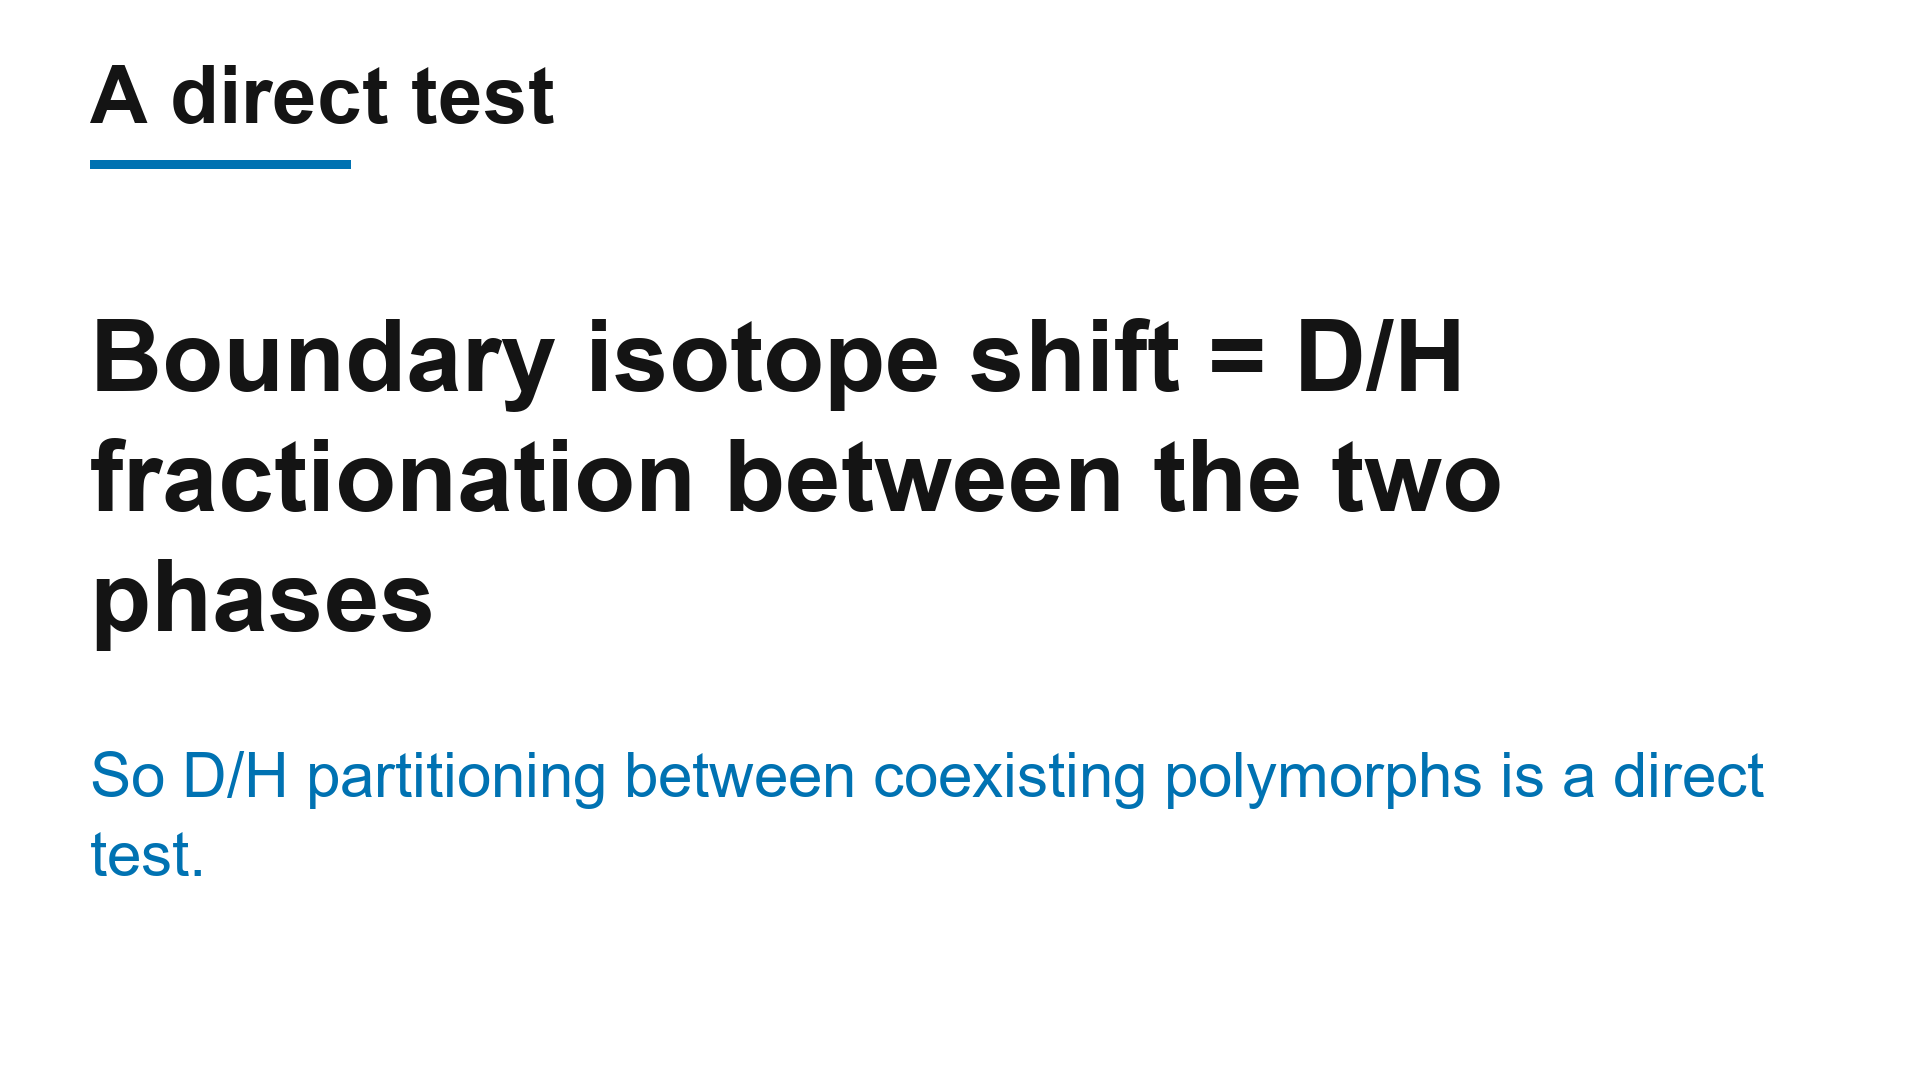
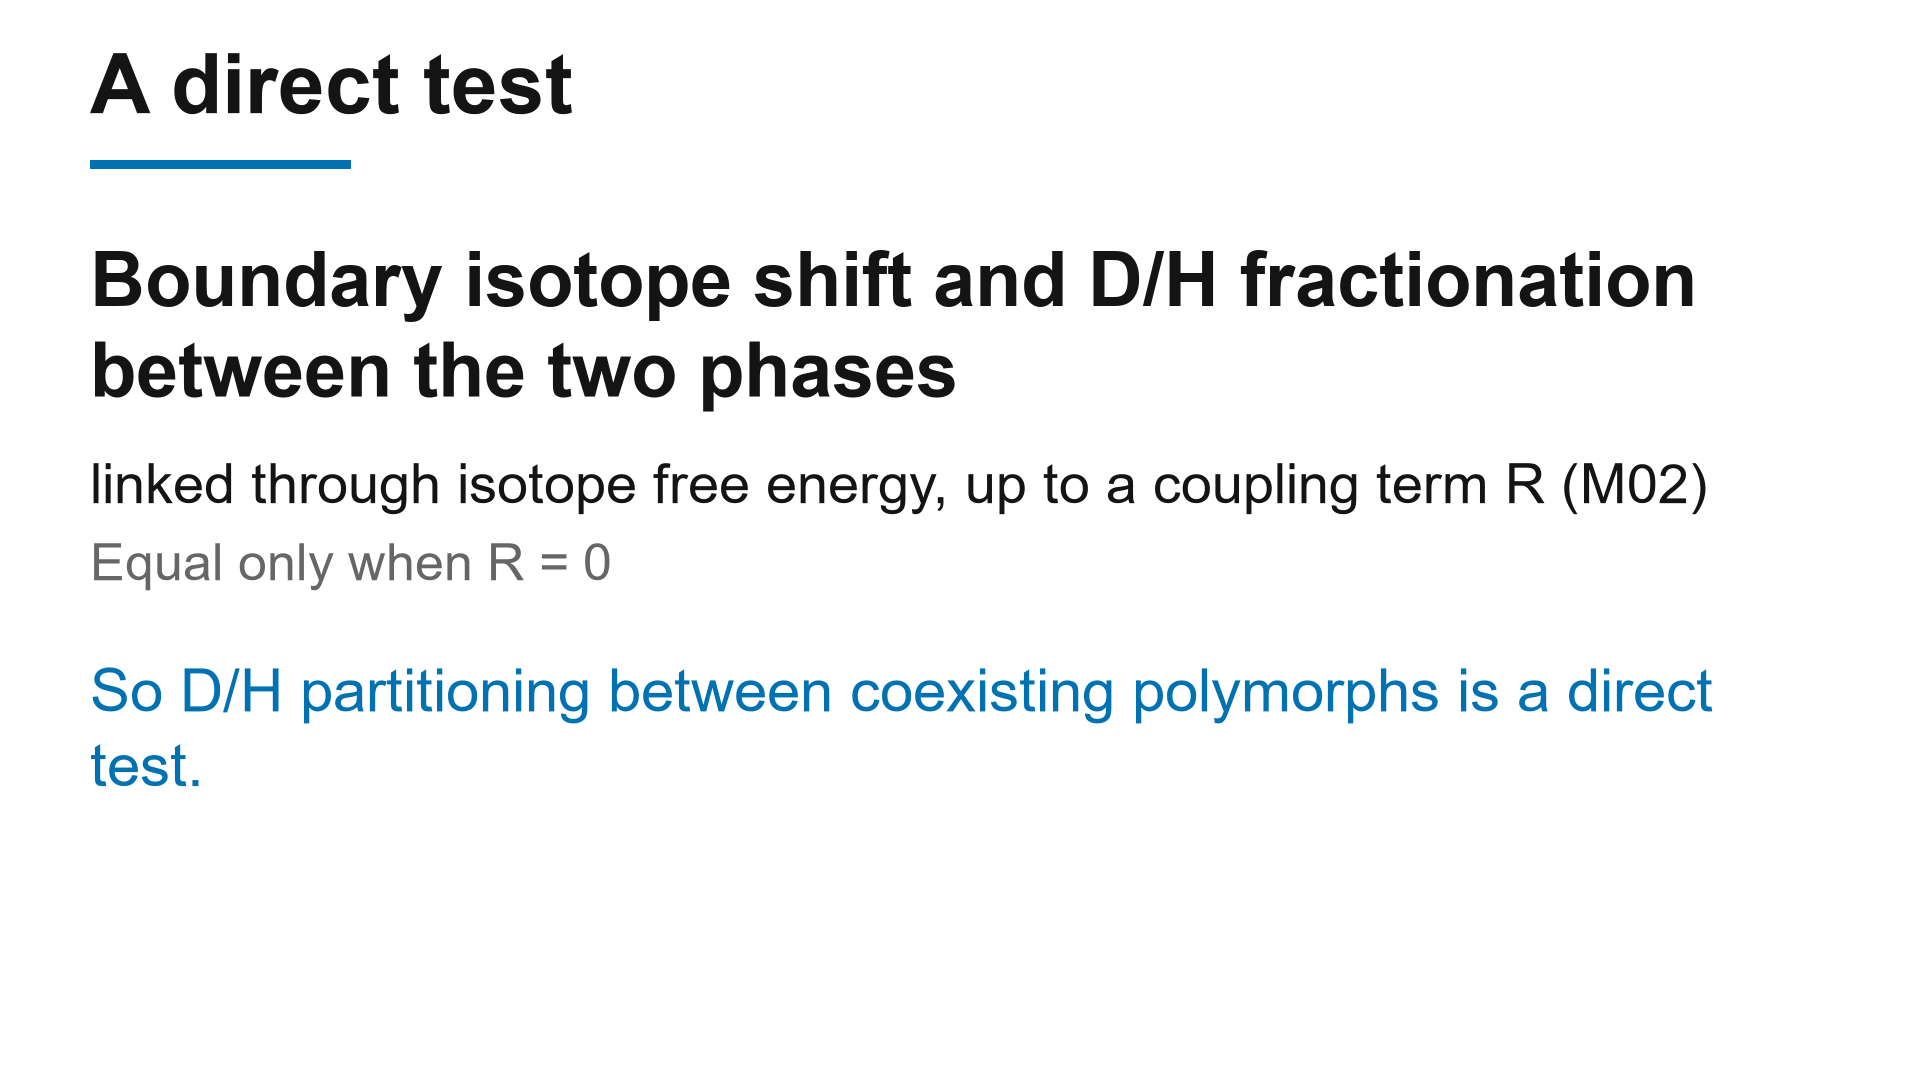
video kit: slide-only fixes per decision 12 action 4; narration and captions unchanged

Changed region(s): [[0.0312, 0.2139, 0.9375, 0.7639], [0.0312, 0.0306, 0.3125, 0.1222], [0.0312, 0.7639, 0.0938, 0.825]]

diff --git a/docs/story/video/make_slides_d12.py b/docs/story/video/make_slides_d12.py
@@ -1,0 +1,182 @@
+"""Regenerate the video slides changed by decision 12 action 4 (visual-only fixes).
+
+Run from the repo root:  .venv/Scripts/python.exe docs/story/video/make_slides_d12.py
+
+Slides 01 and 03 are edited as overlays on the committed d14c125 PNGs (read from git,
+so reruns are idempotent). Slides 06, 07b, 07c and 08 are drawn from scratch in the
+kit style: 1920x1080, white background, Arial, Okabe-Ito blue and vermillion, all text
+48 px or larger. Narration and captions are not touched.
+"""
+import io
+import subprocess
+from pathlib import Path
+
+import matplotlib
+
+matplotlib.use("Agg")
+import matplotlib.image as mpimg
+import matplotlib.pyplot as plt
+from matplotlib.patches import Circle, Rectangle
+
+OUT = Path(__file__).resolve().parent
+ROOT = OUT.parents[2]
+BASE_COMMIT = "d14c125"
+W, H, DPI = 1920, 1080, 100
+INK, BLUE, VERM, GREY = "#141414", "#0072B2", "#D55E00", "#666666"
+SANS, MONO = "Arial", "Consolas"
+X0, XMAX = 90, 1830
+
+
+def px(size):
+    """Font size in points for a given pixel em size at 100 dpi."""
+    return size * 72 / DPI
+
+
+def canvas(base_png=None):
+    fig = plt.figure(figsize=(W / DPI, H / DPI), dpi=DPI)
+    fig.patch.set_facecolor("white")
+    ax = fig.add_axes([0, 0, 1, 1])
+    ax.set_xlim(0, W)
+    ax.set_ylim(H, 0)
+    ax.axis("off")
+    if base_png is not None:
+        ax.imshow(base_png, extent=(0, W, H, 0), interpolation="none")
+        ax.set_xlim(0, W)
+        ax.set_ylim(H, 0)
+    return fig, ax
+
+
+def text(ax, x, y, s, size, color=INK, weight="normal", family=SANS, ha="left"):
+    return ax.text(x, y, s, fontsize=px(size), color=color, weight=weight,
+                   family=family, ha=ha, va="top")
+
+
+def wrap(ax, x, y, s, size, width, line_h=1.25, **kw):
+    """Draw s wrapped to width pixels; return y below the last line."""
+    fig = ax.figure
+    r = fig.canvas.get_renderer()
+    words, lines, cur = s.split(), [], ""
+    for w in words:
+        trial = (cur + " " + w).strip()
+        t = text(ax, 0, -500, trial, size, **kw)
+        wid = t.get_window_extent(renderer=r).width
+        t.remove()
+        if wid > width and cur:
+            lines.append(cur)
+            cur = w
+        else:
+            cur = trial
+    lines.append(cur)
+    for i, ln in enumerate(lines):
+        text(ax, x, y + i * size * line_h, ln, size, **kw)
+    return y + len(lines) * size * line_h
+
+
+def title(ax, s):
+    text(ax, X0, 52, s, 84, weight="bold")
+    ax.add_patch(Rectangle((X0, 160), 261, 9, color=BLUE, lw=0))
+
+
+def save(fig, name):
+    fig.savefig(OUT / name, dpi=DPI, facecolor="white")
+    plt.close(fig)
+    img = mpimg.imread(OUT / name)
+    assert img.shape[:2] == (H, W), (name, img.shape)
+    print("wrote", name, img.shape[1], "x", img.shape[0])
+
+
+def base(name):
+    raw = subprocess.run(["git", "show", f"{BASE_COMMIT}:docs/story/video/{name}"],
+                         cwd=ROOT, check=True, capture_output=True).stdout
+    return mpimg.imread(io.BytesIO(raw), format="png")
+
+
+def slide_01():
+    fig, ax = canvas(base("slide_01_title.png"))
+    ax.add_patch(Rectangle((60, 438), 1800, 152, color="white", lw=0))
+    text(ax, X0, 440, "185 of 212 model evaluations (baseline 131),", 60, BLUE, "bold")
+    text(ax, X0, 518, "moderate-to-strong H bonds", 56)
+    save(fig, "slide_01_title.png")
+
+
+def slide_03():
+    fig, ax = canvas(base("slide_03_headline.png"))
+    text(ax, 1880, 52, "Slope 0.11 to 0.13 meV per H per mÅ", 48, ha="right")
+    text(ax, 1880, 114, "screen-wide, all X-H rows", 48, BLUE, "bold", ha="right")
+    save(fig, "slide_03_headline.png")
+
+
+def slide_06():
+    fig, ax = canvas()
+    title(ax, "A direct test")
+    y = wrap(ax, X0, 250, "Boundary isotope shift and D/H fractionation between the two phases",
+             76, XMAX - X0, 1.2, weight="bold")
+    y = wrap(ax, X0, y + 30, "linked through isotope free energy, up to a coupling term R (M02)",
+             56, XMAX - X0)
+    y = wrap(ax, X0, y + 10, "Equal only when R = 0", 52, XMAX - X0, color=GREY)
+    wrap(ax, X0, y + 60, "So D/H partitioning between coexisting polymorphs is a direct test.",
+         60, XMAX - X0, color=BLUE)
+    save(fig, "slide_06_m02_bridge.png")
+
+
+def slide_07b():
+    fig, ax = canvas()
+    title(ax, "Committed before the data")
+    rows = [
+        ("21 Oct 21:36", "f3ac0ac", "P04 blind prediction: D/H fractionation", INK),
+        ("21 Oct 21:43", "e7ee2d5", "Measured data committed, still unread", INK),
+        ("22 Oct 01:15", "bec68d7", "P05 blind prediction: ice boundaries", INK),
+        ("22 Oct 01:27", "2eb6b8a", "F07 scored: Ih-II and Ih-III wrong sign, failed", VERM),
+    ]
+    y = 230
+    for when, sha, what, col in rows:
+        text(ax, X0, y, when, 52, weight="bold")
+        text(ax, 450, y + 2, sha, 52, BLUE, family=MONO)
+        y = max(y + 130, wrap(ax, 700, y, what, 52, XMAX - 700, 1.2, color=col) + 40)
+    ax.plot([X0, XMAX], [y, y], color="#dddddd", lw=3)
+    wrap(ax, X0, y + 30, "F06: a blind reimplementation matches to 1e-9 meV/atom. "
+         "It checks the code, not the physics.", 52, XMAX - X0, 1.2)
+    save(fig, "slide_07b_commit_timeline.png")
+
+
+def slide_07c():
+    fig, ax = canvas()
+    title(ax, "One literature value, traced")
+    rows = [
+        ("Bond query", "brucite Mg(OH)2 Mg(OD)2 isotope effect lattice parameters "
+                       "neutron diffraction", INK),
+        ("Source", "Chakoumakos et al. 2013, doi 10.2138/am.2013.4202", INK),
+        ("Value", "Mg(OH)2 volume 0.31% larger than Mg(OD)2, room temperature "
+                  "(295 K), neutron diffraction", INK),
+        ("First pass", "\"about 0.3%\" with no quote: not accepted", VERM),
+        ("Decision", "Used: quote recorded, gate passed, sign right in 4 of 4 models", BLUE),
+    ]
+    y = 225
+    for lab, val, col in rows:
+        text(ax, X0, y, lab, 50, weight="bold")
+        y = wrap(ax, 420, y, val, 50, XMAX - 420, 1.18, color=col) + 34
+    save(fig, "slide_07c_bond_trace.png")
+
+
+def slide_08():
+    fig, ax = canvas()
+    title(ax, "Limits")
+    bullets = [
+        "Blind tests: F07 ice boundaries failed, F02 mixed (details in repo)",
+        "Harmonic physics, no proton tunnelling",
+        "The potentials share similar training data, so three models are not three validations",
+    ]
+    y = 225
+    for b in bullets:
+        ax.add_patch(Circle((107, y + 22), 16, color=VERM, lw=0))
+        y = wrap(ax, 160, y, b, 58, XMAX - 160, 1.25) + 34
+    y = max(y, 720)
+    ax.plot([X0, XMAX], [y, y], color="#dddddd", lw=3)
+    text(ax, X0, y + 40, "Code, data and every decision are public", 56)
+    text(ax, X0, y + 125, "https://github.com/canerganis/isoshift", 76, BLUE, "bold")
+    save(fig, "slide_08_limits_repo.png")
+
+
+if __name__ == "__main__":
+    for f in (slide_01, slide_03, slide_06, slide_07b, slide_07c, slide_08):
+        f()

diff --git a/docs/story/video/RECORDING.md b/docs/story/video/RECORDING.md
@@ -14,15 +14,15 @@ Target length 3:40. Hard limit 4:00 (YouTube upload, judging cut-off). Narration
 
 | # | Script time | OBS scene | What is on screen | Do |
 |---|---|---|---|---|
-| 1 | 0:00 to 0:21 | `slide_01_title.png` | IsoShift title, H to D, diaspore and delta-AlOOH | Read the hook. No clicking. |
+| 1 | 0:00 to 0:21 | `slide_01_title.png` | IsoShift title, "185 of 212 model evaluations (baseline 131), moderate-to-strong H bonds", diaspore and delta-AlOOH | Read the hook. No clicking. |
 | 2 | 0:21 to 0:48 | `slide_02_method.png` | One set of force constants, two masses, the three potentials, SevenNet greyed | Read the method paragraph. |
-| 3 | 0:48 to 1:37 | `slide_03_headline.png`, then `slide_03b_counts_zoom.png`, then `slide_03c_weak_side_zoom.png` | Headline figure with 185/212 beside it | Start on the full figure. At "185 of 212" cut to 03b (count box). At "With weak hydrogen bonds it fails" cut to 03c. Use only the cuts you rehearsed. |
+| 3 | 0:48 to 1:37 | `slide_03_headline.png`, then `slide_03b_counts_zoom.png`, then `slide_03c_weak_side_zoom.png` | Headline figure with 185/212 beside it; top right "Slope 0.11 to 0.13 meV per H per mÅ, screen-wide, all X-H rows" | Start on the full figure. At "185 of 212" cut to 03b (count box). At "With weak hydrogen bonds it fails" cut to 03c. Use only the cuts you rehearsed. |
 | 4 | 1:37 to 1:55 | `slide_04_stretch_check.png` | Stretch check figure, window 2.50 to 2.80 A shaded, slope ratios 0.91, 0.92, 0.92 | Read the stretch paragraph. This is the shot to cut if you run long. |
 | 5 | 1:55 to 2:23 | `slide_05_alooh_card.png` | "Exploratory sign prediction", 300 K +1.13 GPa (ORB) and +1.33 GPa (MACE), about 1000 K +0.7 to +0.9 GPa | Read the card paragraph. Optional: for the last 5 s cut to `CARD-AlOOH.md` at the temperature table. |
-| 6 | 2:23 to 2:39 | `slide_06_m02_bridge.png` | Boundary isotope shift = D/H fractionation between the two phases | Read the bridge paragraph. |
-| 7 | 2:39 to 3:08 | `slide_07_ai_process.png` for about 5 s, then the editor window | AI process slide, then screen tour | Cut in this order, about 5 s each: `logs/bond_queries.jsonl`, the `git log` terminal with the commit hashes, `docs/decisions/`, `F06-independent-replication.md`. |
+| 6 | 2:23 to 2:39 | `slide_06_m02_bridge.png` | Boundary isotope shift and D/H fractionation, "linked through isotope free energy, up to a coupling term R (M02)", equal only when R = 0 | Read the bridge paragraph. |
+| 7 | 2:39 to 3:08 | `slide_07_ai_process.png` (about 5 s), then `slide_07c_bond_trace.png` (about 10 s), then `slide_07b_commit_timeline.png` (about 14 s) | AI process slide; one Bond trace (query, DOI, value with conditions, first pass not accepted, used); commit timeline (P04 f3ac0ac 21:36 before data e7ee2d5 21:43, P05 bec68d7 01:15, F07 2eb6b8a 01:27 failed, F06 1e-9 meV/atom) | Static slides, no editor scrolling. Cut to 07c at "Literature agents on Valency Bond", to 07b at "Predictions were committed to git", and hold 07b to the end of the scene. |
 | 8 | 3:08 to 3:21 | Browser window (marimo app) | Banner, Check a pair, How we know | See the click path below. |
-| 9 | 3:21 to 3:40 | `slide_08_limits_repo.png` | Limits and https://github.com/canerganis/isoshift | Read the limits paragraph. Hold the slide 2 s after the last word. |
+| 9 | 3:21 to 3:40 | `slide_08_limits_repo.png` | Limits ("Blind tests: F07 ice boundaries failed, F02 mixed (details in repo)") and https://github.com/canerganis/isoshift | Read the limits paragraph. Hold the slide 2 s after the last word. |
 
 ## Click path in the marimo app (scene 8, 13 s)
 
